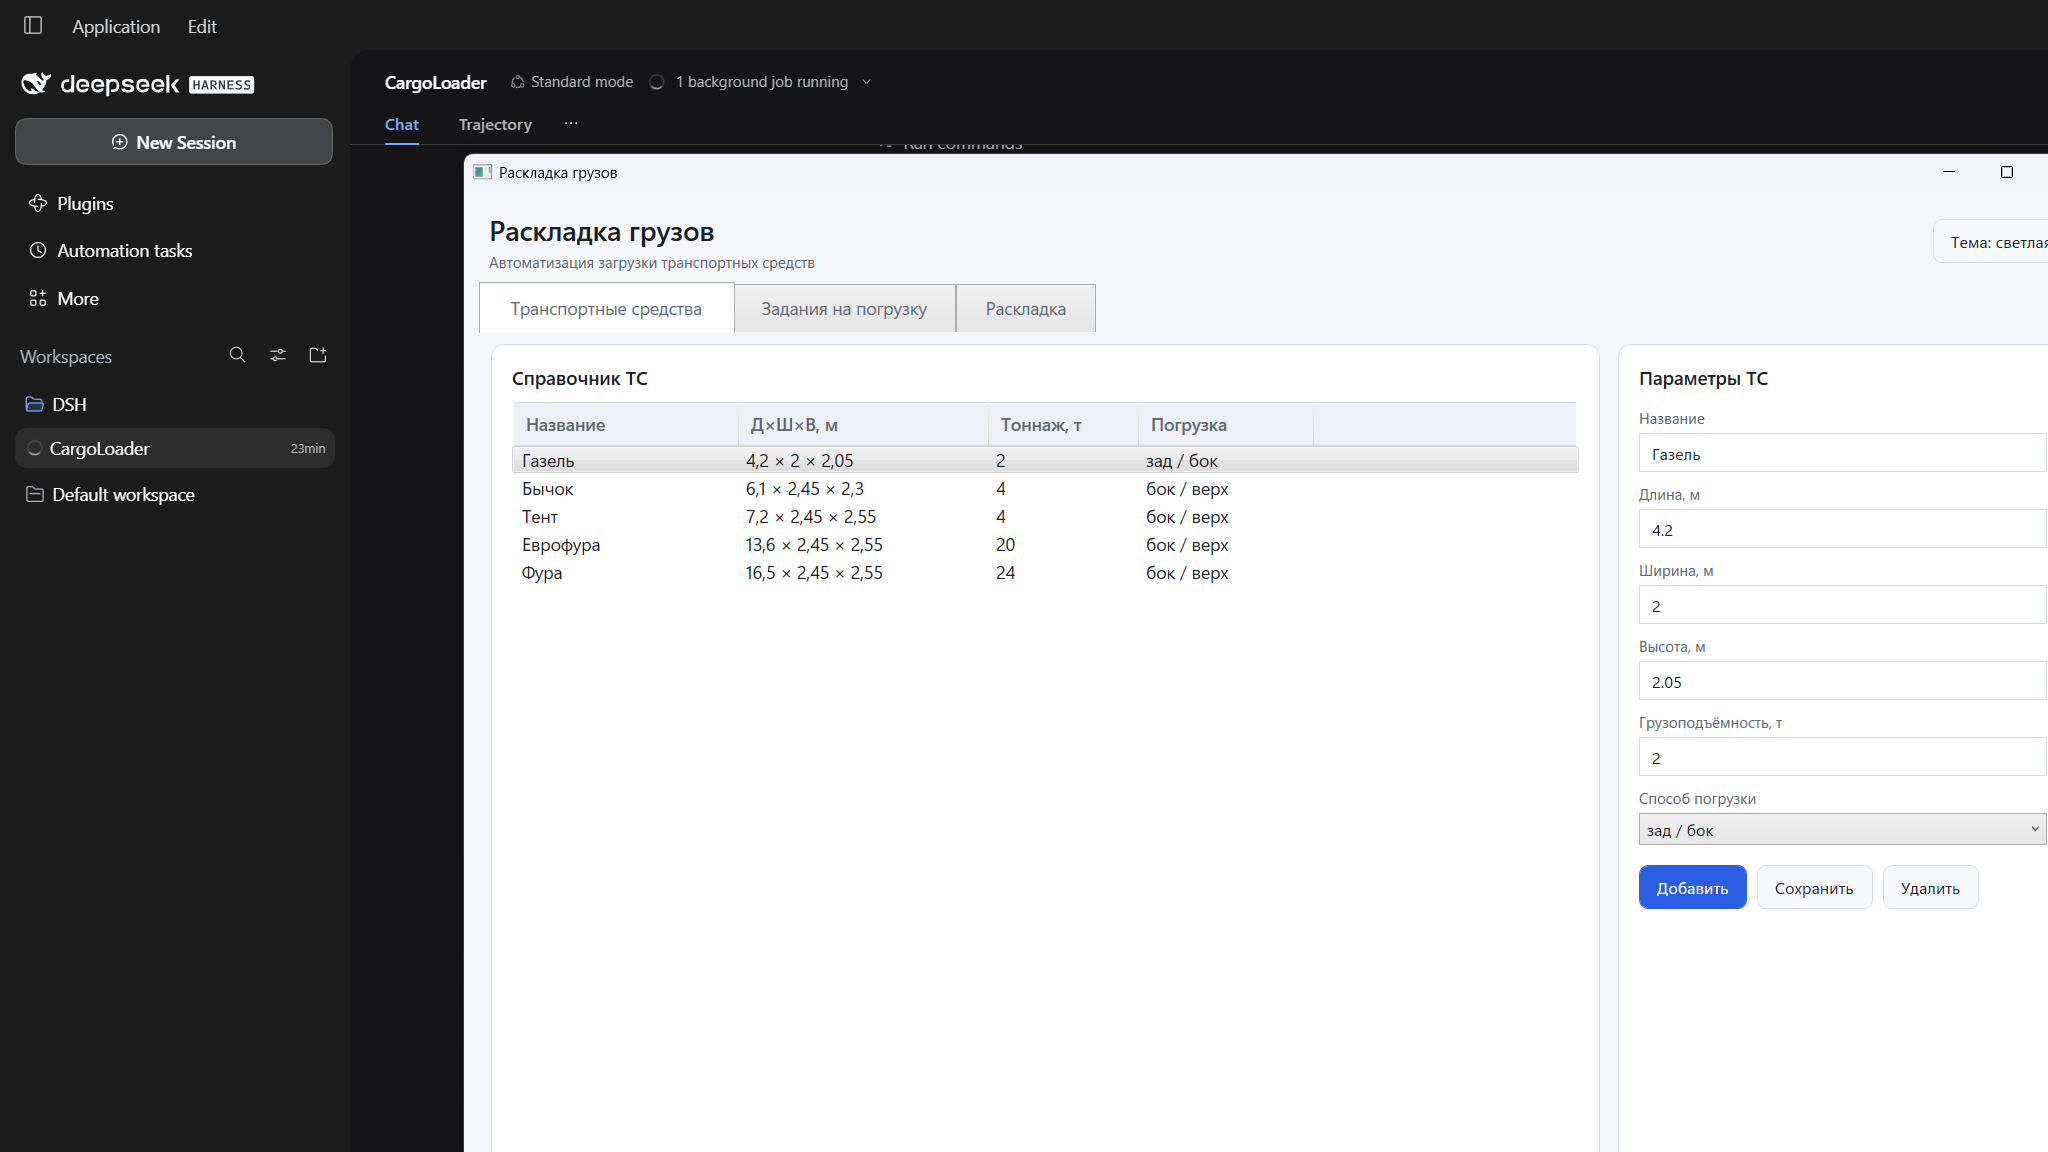
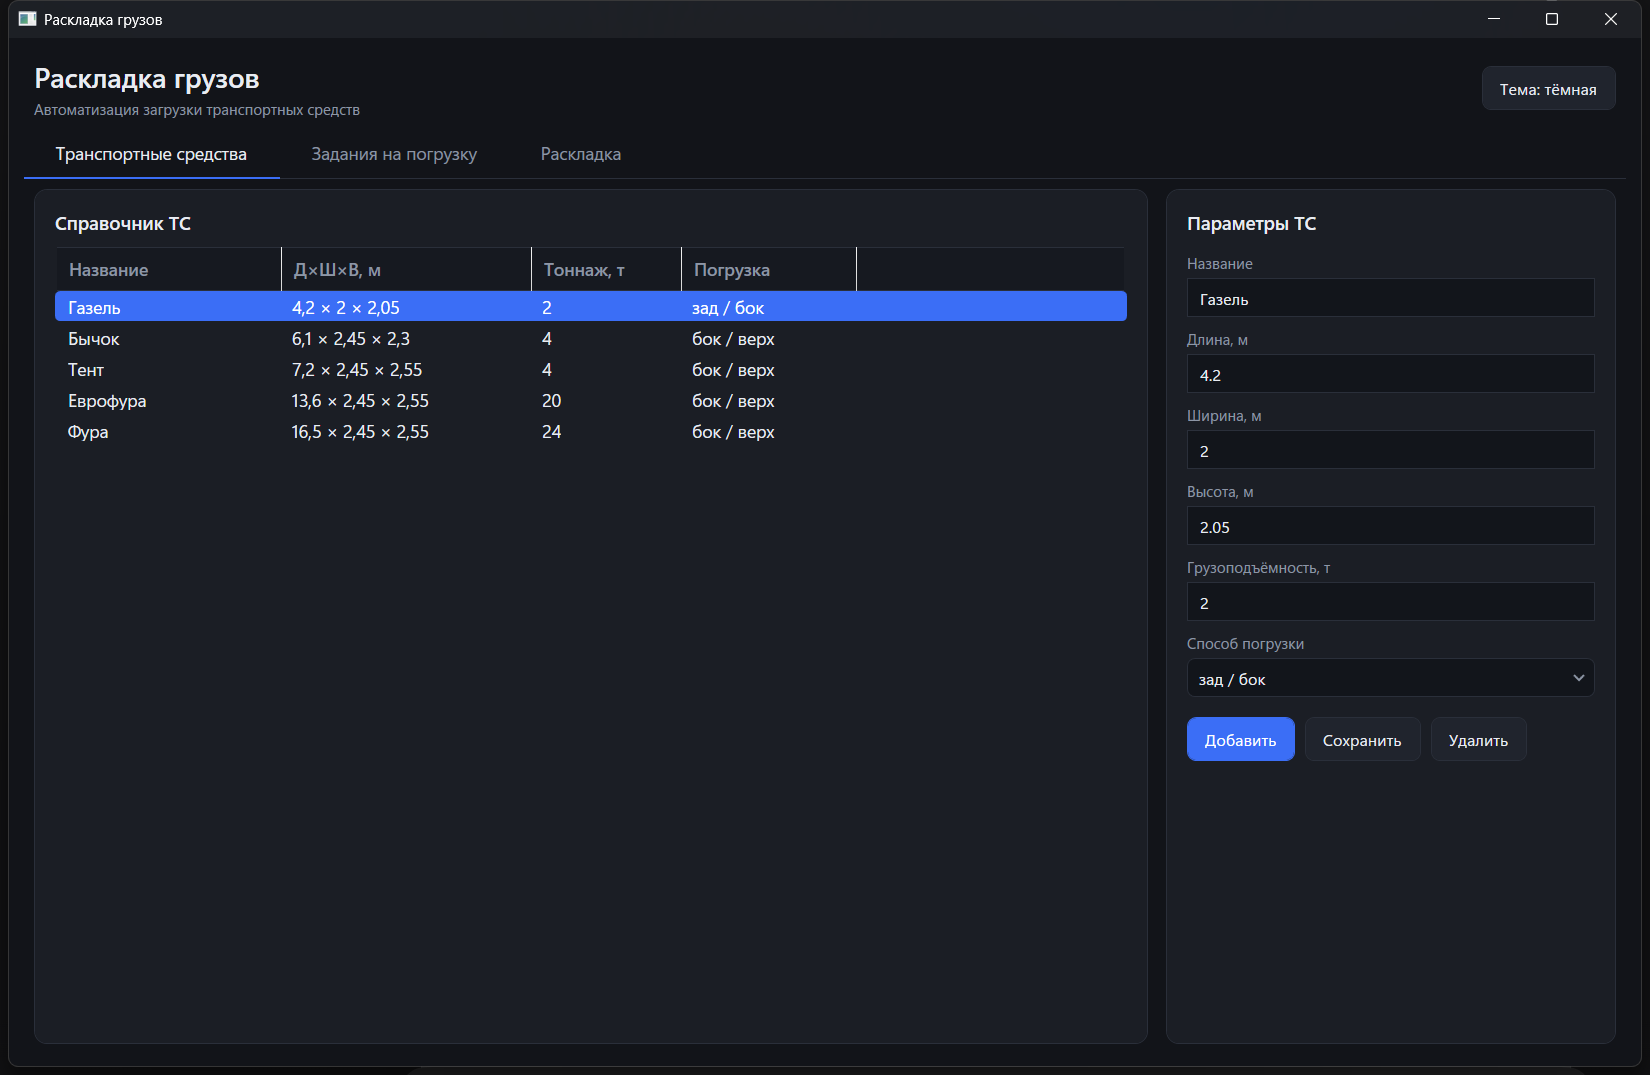
Fix dark theme: убраны светлые системные элементы
Проблема: в тёмной теме оставались белые блоки от системного оформления WPF —
заголовок окна, полоса вкладок, кнопки выпадающих списков, полосы прокрутки,
подсветка строк таблиц.

Изменено:
- свои ControlTemplate для TabControl/TabItem (тёмная полоса, акцентная
  подчёркивающая линия у активной вкладки)
- полный шаблон ComboBox: тёмное поле, своя стрелка, тёмный выпадающий список
  с подсветкой через цвета темы (высокий контраст в обеих темах)
- шаблоны ListBoxItem / ListViewItem / DataGridRow / DataGridCell:
  прозрачный фон, подсветка акцентом вместо системной
- тёмные полосы прокрутки
- тёмный заголовок окна через DwmSetWindowAttribute (обе темы)

Замер по скриншотам окна: доля светлых пикселей в тёмной теме
8.4% -> 1.4% (осталось только текст и цвета грузов).

diff --git a/CargoLoad/MainWindow.xaml b/CargoLoad/MainWindow.xaml
@@ -60,28 +60,87 @@
             <Setter Property="Background" Value="{DynamicResource InputBg}" />
             <Setter Property="Foreground" Value="{DynamicResource InputFg}" />
             <Setter Property="BorderBrush" Value="{DynamicResource Border}" />
-            <Setter Property="Padding" Value="6,4" />
+            <Setter Property="Padding" Value="9,6" />
             <Setter Property="FontSize" Value="13" />
+            <Setter Property="SnapsToDevicePixels" Value="True" />
+            <Setter Property="Template">
+                <Setter.Value>
+                    <ControlTemplate TargetType="ComboBox">
+                        <Grid>
+                            <Border x:Name="bd" Background="{TemplateBinding Background}"
+                                    BorderBrush="{TemplateBinding BorderBrush}"
+                                    BorderThickness="1" CornerRadius="6" />
+                            <Grid Margin="1">
+                                <Grid.ColumnDefinitions>
+                                    <ColumnDefinition Width="*" />
+                                    <ColumnDefinition Width="24" />
+                                </Grid.ColumnDefinitions>
+                                <ContentPresenter Grid.Column="0" Margin="{TemplateBinding Padding}"
+                                                  VerticalAlignment="Center"
+                                                  Content="{TemplateBinding SelectionBoxItem}"
+                                                  ContentTemplate="{TemplateBinding SelectionBoxItemTemplate}"
+                                                  ContentStringFormat="{TemplateBinding SelectionBoxItemStringFormat}"
+                                                  IsHitTestVisible="False" />
+                                <Path Grid.Column="1" Data="M0,0 L4,4 L8,0"
+                                      Stroke="{DynamicResource Muted}" StrokeThickness="1.6"
+                                      HorizontalAlignment="Center" VerticalAlignment="Center" />
+                            </Grid>
+                            <ToggleButton Focusable="False" ClickMode="Press" Background="Transparent"
+                                          IsChecked="{Binding IsDropDownOpen, Mode=TwoWay, RelativeSource={RelativeSource TemplatedParent}}">
+                                <ToggleButton.Template>
+                                    <ControlTemplate TargetType="ToggleButton">
+                                        <Border Background="Transparent" />
+                                    </ControlTemplate>
+                                </ToggleButton.Template>
+                            </ToggleButton>
+                            <Popup x:Name="PART_Popup" AllowsTransparency="True" Placement="Bottom"
+                                   IsOpen="{TemplateBinding IsDropDownOpen}" PopupAnimation="Fade" StaysOpen="False">
+                                <Border Background="{DynamicResource Panel}" BorderBrush="{DynamicResource Border}"
+                                        BorderThickness="1" CornerRadius="6" Margin="0,4,0,0" Padding="2"
+                                        MinWidth="{Binding ActualWidth, RelativeSource={RelativeSource TemplatedParent}}"
+                                        MaxHeight="320">
+                                    <ScrollViewer VerticalScrollBarVisibility="Auto">
+                                        <StackPanel IsItemsHost="True" />
+                                    </ScrollViewer>
+                                </Border>
+                            </Popup>
+                        </Grid>
+                        <ControlTemplate.Triggers>
+                            <Trigger Property="IsMouseOver" Value="True">
+                                <Setter TargetName="bd" Property="BorderBrush" Value="{DynamicResource Muted}" />
+                            </Trigger>
+                            <Trigger Property="IsDropDownOpen" Value="True">
+                                <Setter TargetName="bd" Property="BorderBrush" Value="{DynamicResource Accent}" />
+                            </Trigger>
+                            <Trigger Property="IsEnabled" Value="False">
+                                <Setter Property="Opacity" Value="0.5" />
+                            </Trigger>
+                        </ControlTemplate.Triggers>
+                    </ControlTemplate>
+                </Setter.Value>
+            </Setter>
         </Style>
 
-        <!-- Контрастные пункты выпадающих списков: тёмный текст на светлом фоне -->
+        <!-- Пункты выпадающих списков: цвета берутся из темы, контраст высокий -->
         <Style TargetType="ComboBoxItem">
-            <Setter Property="Background" Value="#FFFFFF" />
-            <Setter Property="Foreground" Value="#111417" />
-            <Setter Property="Padding" Value="9,6" />
+            <Setter Property="Background" Value="Transparent" />
+            <Setter Property="Foreground" Value="{DynamicResource Text}" />
+            <Setter Property="Padding" Value="9,7" />
             <Setter Property="FontSize" Value="13" />
             <Setter Property="Template">
                 <Setter.Value>
                     <ControlTemplate TargetType="ComboBoxItem">
-                        <Border x:Name="bd" Background="{TemplateBinding Background}" Padding="{TemplateBinding Padding}">
+                        <Border x:Name="bd" Background="{TemplateBinding Background}"
+                                Padding="{TemplateBinding Padding}" CornerRadius="5" Margin="2,1">
                             <ContentPresenter />
                         </Border>
                         <ControlTemplate.Triggers>
                             <Trigger Property="IsHighlighted" Value="True">
-                                <Setter TargetName="bd" Property="Background" Value="#DCE6FA" />
+                                <Setter TargetName="bd" Property="Background" Value="{DynamicResource PanelAlt}" />
                             </Trigger>
                             <Trigger Property="IsSelected" Value="True">
-                                <Setter TargetName="bd" Property="Background" Value="#C7D7F7" />
+                                <Setter TargetName="bd" Property="Background" Value="{DynamicResource Accent}" />
+                                <Setter Property="Foreground" Value="{DynamicResource AccentText}" />
                             </Trigger>
                         </ControlTemplate.Triggers>
                     </ControlTemplate>
@@ -103,15 +162,134 @@
             <Setter Property="Padding" Value="16" />
         </Style>
 
+        <!-- Вкладки: без системного светлого хрома -->
         <Style TargetType="TabItem">
             <Setter Property="Foreground" Value="{DynamicResource Muted}" />
             <Setter Property="FontSize" Value="14" />
-            <Setter Property="Padding" Value="16,10" />
+            <Setter Property="Padding" Value="18,10" />
+            <Setter Property="Template">
+                <Setter.Value>
+                    <ControlTemplate TargetType="TabItem">
+                        <Border x:Name="bd" Background="Transparent" BorderThickness="0,0,0,2"
+                                BorderBrush="Transparent" Padding="{TemplateBinding Padding}">
+                            <ContentPresenter ContentSource="Header"
+                                              HorizontalAlignment="Center" VerticalAlignment="Center" />
+                        </Border>
+                        <ControlTemplate.Triggers>
+                            <Trigger Property="IsMouseOver" Value="True">
+                                <Setter Property="Foreground" Value="{DynamicResource Text}" />
+                            </Trigger>
+                            <Trigger Property="IsSelected" Value="True">
+                                <Setter TargetName="bd" Property="BorderBrush" Value="{DynamicResource Accent}" />
+                                <Setter Property="Foreground" Value="{DynamicResource Text}" />
+                            </Trigger>
+                        </ControlTemplate.Triggers>
+                    </ControlTemplate>
+                </Setter.Value>
+            </Setter>
+        </Style>
+
+        <Style TargetType="TabControl">
+            <Setter Property="Background" Value="Transparent" />
+            <Setter Property="BorderThickness" Value="0" />
+            <Setter Property="Template">
+                <Setter.Value>
+                    <ControlTemplate TargetType="TabControl">
+                        <DockPanel>
+                            <Border DockPanel.Dock="Top" Background="Transparent"
+                                    BorderBrush="{DynamicResource Border}" BorderThickness="0,0,0,1">
+                                <TabPanel IsItemsHost="True" Background="Transparent" Margin="0,0,0,-1" />
+                            </Border>
+                            <ContentPresenter x:Name="PART_SelectedContentHost" ContentSource="SelectedContent" />
+                        </DockPanel>
+                    </ControlTemplate>
+                </Setter.Value>
+            </Setter>
         </Style>
 
         <Style TargetType="ListViewItem">
             <Setter Property="Foreground" Value="{DynamicResource Text}" />
             <Setter Property="Padding" Value="4,3" />
+            <Setter Property="Template">
+                <Setter.Value>
+                    <ControlTemplate TargetType="ListViewItem">
+                        <Border x:Name="bd" Background="Transparent" Padding="{TemplateBinding Padding}"
+                                CornerRadius="4">
+                            <GridViewRowPresenter Content="{TemplateBinding Content}"
+                                                  Columns="{TemplateBinding GridView.ColumnCollection}" />
+                        </Border>
+                        <ControlTemplate.Triggers>
+                            <Trigger Property="IsMouseOver" Value="True">
+                                <Setter TargetName="bd" Property="Background" Value="{DynamicResource PanelAlt}" />
+                            </Trigger>
+                            <Trigger Property="IsSelected" Value="True">
+                                <Setter TargetName="bd" Property="Background" Value="{DynamicResource Accent}" />
+                                <Setter Property="Foreground" Value="{DynamicResource AccentText}" />
+                            </Trigger>
+                        </ControlTemplate.Triggers>
+                    </ControlTemplate>
+                </Setter.Value>
+            </Setter>
+        </Style>
+
+        <Style TargetType="ListBoxItem">
+            <Setter Property="Foreground" Value="{DynamicResource Text}" />
+            <Setter Property="Padding" Value="8,6" />
+            <Setter Property="Template">
+                <Setter.Value>
+                    <ControlTemplate TargetType="ListBoxItem">
+                        <Border x:Name="bd" Background="Transparent" Padding="{TemplateBinding Padding}"
+                                CornerRadius="5" Margin="0,1">
+                            <ContentPresenter />
+                        </Border>
+                        <ControlTemplate.Triggers>
+                            <Trigger Property="IsMouseOver" Value="True">
+                                <Setter TargetName="bd" Property="Background" Value="{DynamicResource PanelAlt}" />
+                            </Trigger>
+                            <Trigger Property="IsSelected" Value="True">
+                                <Setter TargetName="bd" Property="Background" Value="{DynamicResource Accent}" />
+                                <Setter Property="Foreground" Value="{DynamicResource AccentText}" />
+                            </Trigger>
+                        </ControlTemplate.Triggers>
+                    </ControlTemplate>
+                </Setter.Value>
+            </Setter>
+        </Style>
+
+        <Style TargetType="ScrollBar">
+            <Setter Property="Background" Value="Transparent" />
+            <Setter Property="Width" Value="10" />
+            <Setter Property="Template">
+                <Setter.Value>
+                    <ControlTemplate TargetType="ScrollBar">
+                        <Grid Background="Transparent">
+                            <Track x:Name="PART_Track" IsDirectionReversed="True">
+                                <Track.DecreaseRepeatButton>
+                                    <RepeatButton Command="ScrollBar.PageUpCommand" Opacity="0" Focusable="False" />
+                                </Track.DecreaseRepeatButton>
+                                <Track.Thumb>
+                                    <Thumb>
+                                        <Thumb.Template>
+                                            <ControlTemplate TargetType="Thumb">
+                                                <Border Background="{DynamicResource Border}" CornerRadius="5" Margin="2" />
+                                            </ControlTemplate>
+                                        </Thumb.Template>
+                                    </Thumb>
+                                </Track.Thumb>
+                                <Track.IncreaseRepeatButton>
+                                    <RepeatButton Command="ScrollBar.PageDownCommand" Opacity="0" Focusable="False" />
+                                </Track.IncreaseRepeatButton>
+                            </Track>
+                        </Grid>
+                    </ControlTemplate>
+                </Setter.Value>
+            </Setter>
+            <Style.Triggers>
+                <Trigger Property="Orientation" Value="Horizontal">
+                    <Setter Property="Width" Value="Auto" />
+                    <Setter Property="Height" Value="10" />
+                </Trigger>
+            </Style.Triggers>
         </Style>
 
         <Style TargetType="GridViewColumnHeader">
@@ -129,6 +307,40 @@
             <Setter Property="Foreground" Value="{DynamicResource Muted}" />
             <Setter Property="FontWeight" Value="SemiBold" />
             <Setter Property="Padding" Value="10,8" />
+            <Setter Property="BorderBrush" Value="{DynamicResource Border}" />
+            <Setter Property="BorderThickness" Value="0,0,1,1" />
+        </Style>
+
+        <Style TargetType="DataGridRow">
+            <Setter Property="Background" Value="Transparent" />
+            <Setter Property="Foreground" Value="{DynamicResource Text}" />
+            <Style.Triggers>
+                <Trigger Property="IsMouseOver" Value="True">
+                    <Setter Property="Background" Value="{DynamicResource PanelAlt}" />
+                </Trigger>
+            </Style.Triggers>
+        </Style>
+
+        <Style TargetType="DataGridCell">
+            <Setter Property="Background" Value="Transparent" />
+            <Setter Property="Foreground" Value="{DynamicResource Text}" />
+            <Setter Property="BorderThickness" Value="0" />
+            <Setter Property="Padding" Value="8,6" />
+            <Setter Property="Template">
+                <Setter.Value>
+                    <ControlTemplate TargetType="DataGridCell">
+                        <Border Background="{TemplateBinding Background}" Padding="{TemplateBinding Padding}">
+                            <ContentPresenter VerticalAlignment="Center" />
+                        </Border>
+                    </ControlTemplate>
+                </Setter.Value>
+            </Setter>
+            <Style.Triggers>
+                <Trigger Property="IsSelected" Value="True">
+                    <Setter Property="Background" Value="{DynamicResource Accent}" />
+                    <Setter Property="Foreground" Value="{DynamicResource AccentText}" />
+                </Trigger>
+            </Style.Triggers>
         </Style>
     </Window.Resources>
 

diff --git a/CargoLoad/MainWindow.xaml.cs b/CargoLoad/MainWindow.xaml.cs
@@ -3,8 +3,10 @@ using System.Collections.Generic;
 using System.Globalization;
 using System.IO;
 using System.Linq;
+using System.Runtime.InteropServices;
 using System.Windows;
 using System.Windows.Controls;
+using System.Windows.Interop;
 using System.Windows.Media;
 using System.Windows.Shapes;
 using Microsoft.Win32;
@@ -114,7 +116,32 @@ namespace CargoLoad
         {
             Theme.Apply(dark);
             ThemeButton.Content = dark ? "Тема: тёмная" : "Тема: светлая";
+            ApplyTitleBar(dark);
             if (_multi != null) DrawSelectedTruck();
+        }
+
+        [DllImport("dwmapi.dll", PreserveSig = true)]
+        private static extern int DwmSetWindowAttribute(IntPtr hwnd, int attr, ref int attrValue, int attrSize);
+
+        /// <summary>Тёмный/светлый системный заголовок окна.</summary>
+        private void ApplyTitleBar(bool dark)
+        {
+            try
+            {
+                IntPtr hwnd = new WindowInteropHelper(this).Handle;
+                if (hwnd == IntPtr.Zero) return;
+
+                int value = dark ? 1 : 0;
+                const int DWMWA_USE_IMMERSIVE_DARK_MODE = 20;
+                const int DWMWA_USE_IMMERSIVE_DARK_MODE_OLD = 19;
+
+                if (DwmSetWindowAttribute(hwnd, DWMWA_USE_IMMERSIVE_DARK_MODE, ref value, sizeof(int)) != 0)
+                    DwmSetWindowAttribute(hwnd, DWMWA_USE_IMMERSIVE_DARK_MODE_OLD, ref value, sizeof(int));
+            }
+            catch (Exception)
+            {
+                // не критично: заголовок останется стандартным
+            }
         }
 
         private void ThemeButton_Click(object sender, RoutedEventArgs e)
